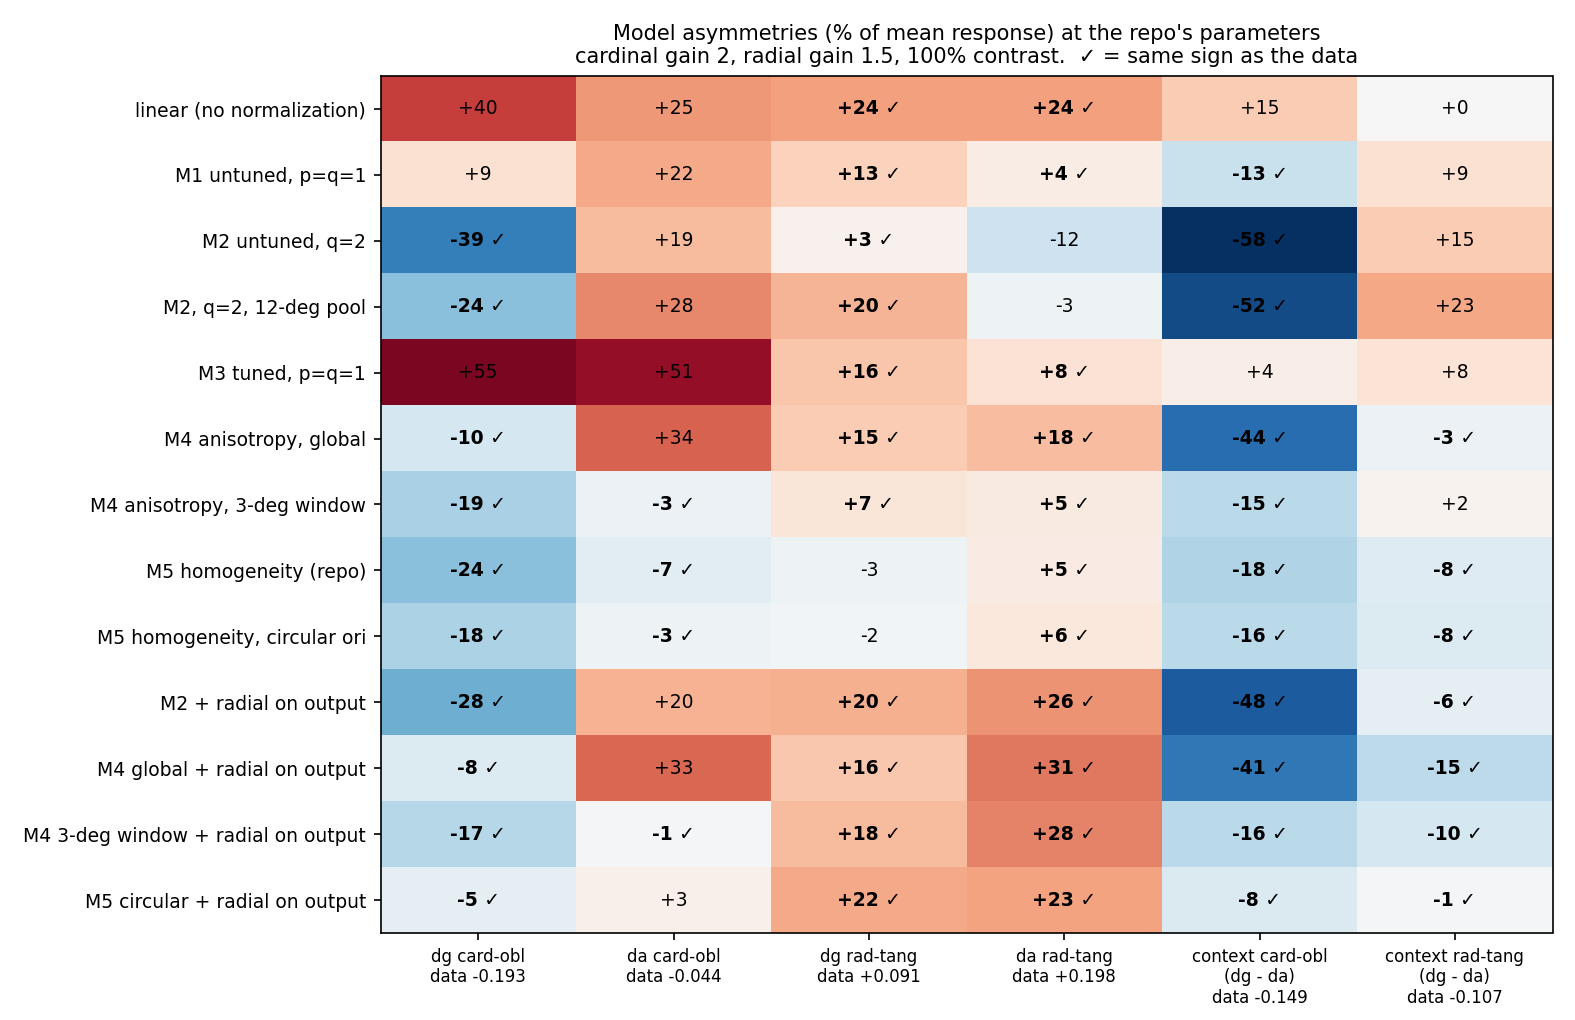
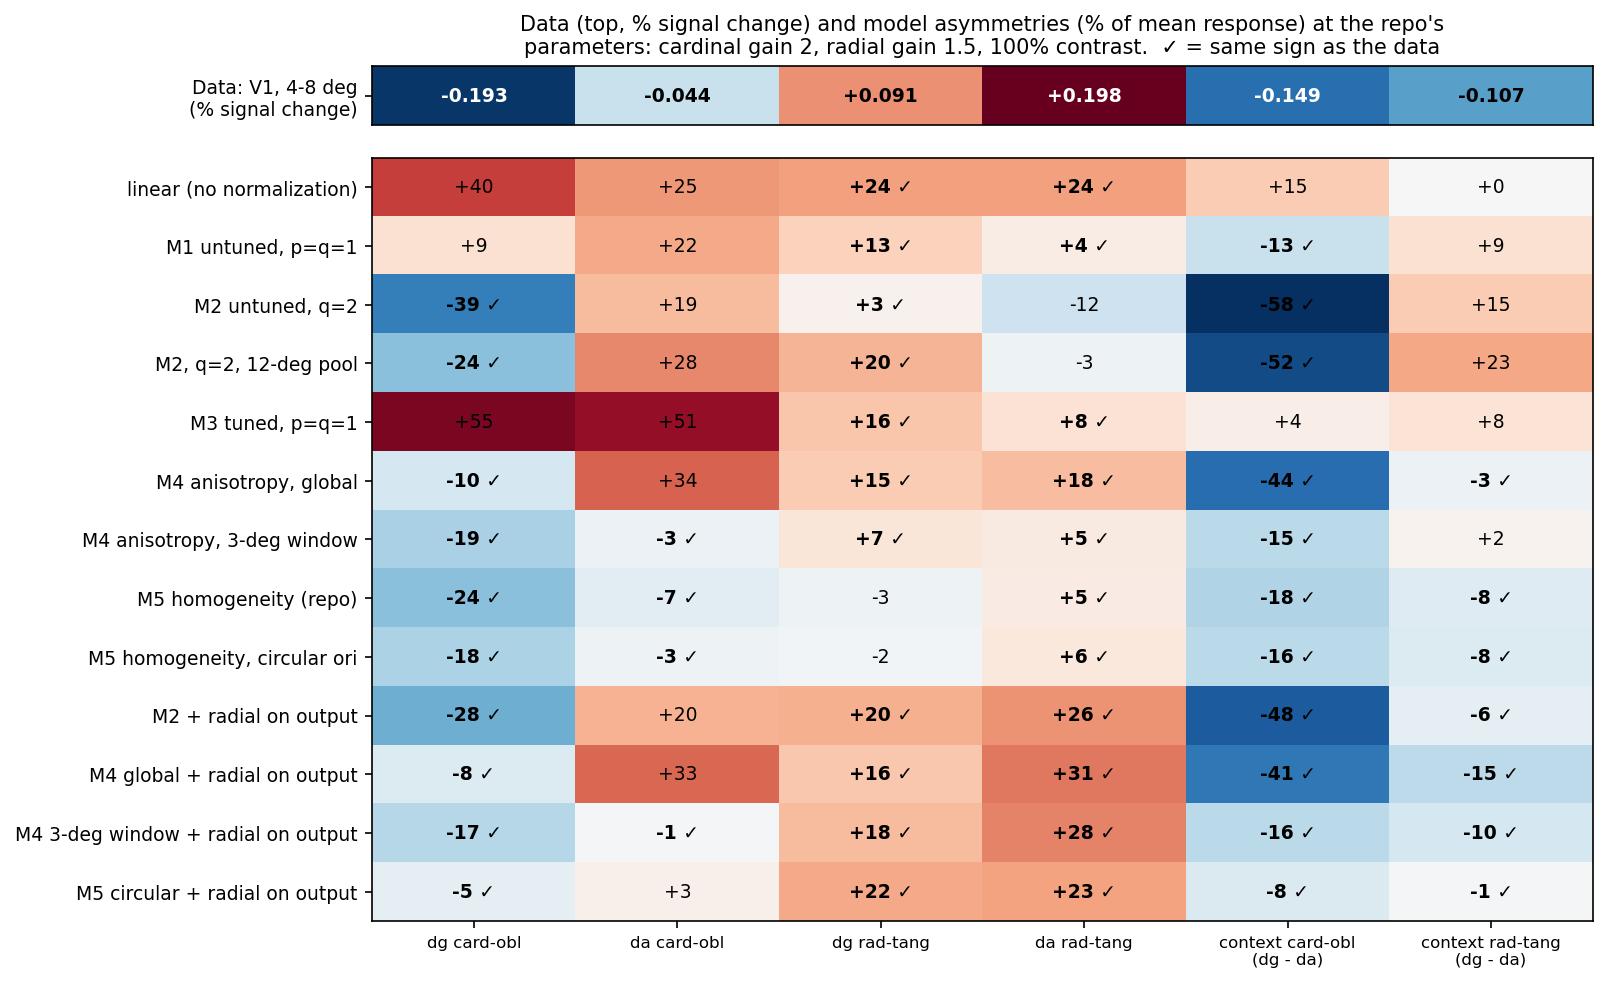
Add a data row to the pyramid-model sign table (fig 1)
The V1 data now sit in their own row above the model variants, on a
separate colour scale, since % signal change and % of model mean
response are not comparable. Only fig 1 was redrawn; figs 2-4 are
unchanged.

diff --git a/Models/paradoxes/03_figures.py b/Models/paradoxes/03_figures.py
@@ -72,7 +72,18 @@ def repo_sigma(key):
 cols = list(DATA_T)
 M = np.array([[tests(R[f"{k} || {REPO_GAIN}"][S.index(repo_sigma(k))])[c] for c in cols]
               for _, k in ROWS])
-fig, ax = plt.subplots(figsize=(10.5, 6.8))
+fig, (axd, ax) = plt.subplots(2, 1, figsize=(10.5, 7.4), sharex=True,
+                              gridspec_kw={"height_ratios": [1, len(ROWS)], "hspace": 0.08})
+# data row: its own colour scale, because % signal change and % of model mean are not comparable
+D = np.array([[DATA_T[c] for c in cols]])
+dlim = np.abs(D).max()
+axd.imshow(D, cmap="RdBu_r", norm=TwoSlopeNorm(0, -dlim, dlim), aspect="auto")
+for c in range(D.shape[1]):
+    axd.text(c, 0, f"{D[0, c]:+.3f}", ha="center", va="center", fontsize=9, fontweight="bold",
+             color="white" if abs(D[0, c]) > 0.6 * dlim else "black")
+axd.set_yticks([0])
+axd.set_yticklabels(["Data: V1, 4-8 deg\n(% signal change)"], fontsize=9)
+axd.tick_params(axis="x", bottom=False)
 lim = np.nanmax(np.abs(M))
 ax.imshow(M, cmap="RdBu_r", norm=TwoSlopeNorm(0, -lim, lim), aspect="auto")
 for r in range(M.shape[0]):
@@ -81,14 +92,13 @@ for r in range(M.shape[0]):
         ax.text(c, r, f"{M[r, c]:+.0f}" + (" ✓" if ok else ""), ha="center", va="center",
                 fontsize=9, fontweight="bold" if ok else "normal")
 ax.set_xticks(range(len(cols)))
-ax.set_xticklabels([f"{c}\ndata {DATA_T[c]:+.3f}" for c in cols], fontsize=8)
+ax.set_xticklabels(cols, fontsize=8)
 ax.set_yticks(range(len(ROWS)))
 ax.set_yticklabels([r for r, _ in ROWS], fontsize=9)
-ax.set_title("Model asymmetries (% of mean response) at the repo's parameters\n"
-             "cardinal gain 2, radial gain 1.5, 100% contrast.  ✓ = same sign as the data",
-             fontsize=10)
-fig.tight_layout()
-fig.savefig(L.os.path.join(OUT, "fig1_sign_table.png"), dpi=150)
+axd.set_title("Data (top, % signal change) and model asymmetries (% of mean response) at the repo's\n"
+              "parameters: cardinal gain 2, radial gain 1.5, 100% contrast.  ✓ = same sign as the data",
+              fontsize=10)
+fig.savefig(L.os.path.join(OUT, "fig1_sign_table.png"), dpi=150, bbox_inches="tight")
 
 # ---- fig 2: sigma ---------------------------------------------------------------------
 PANEL = [("M1 untuned", "M1 untuned, p=q=1"), ("M2 untuned q=2 [input]", "M2 untuned, q=2"),
